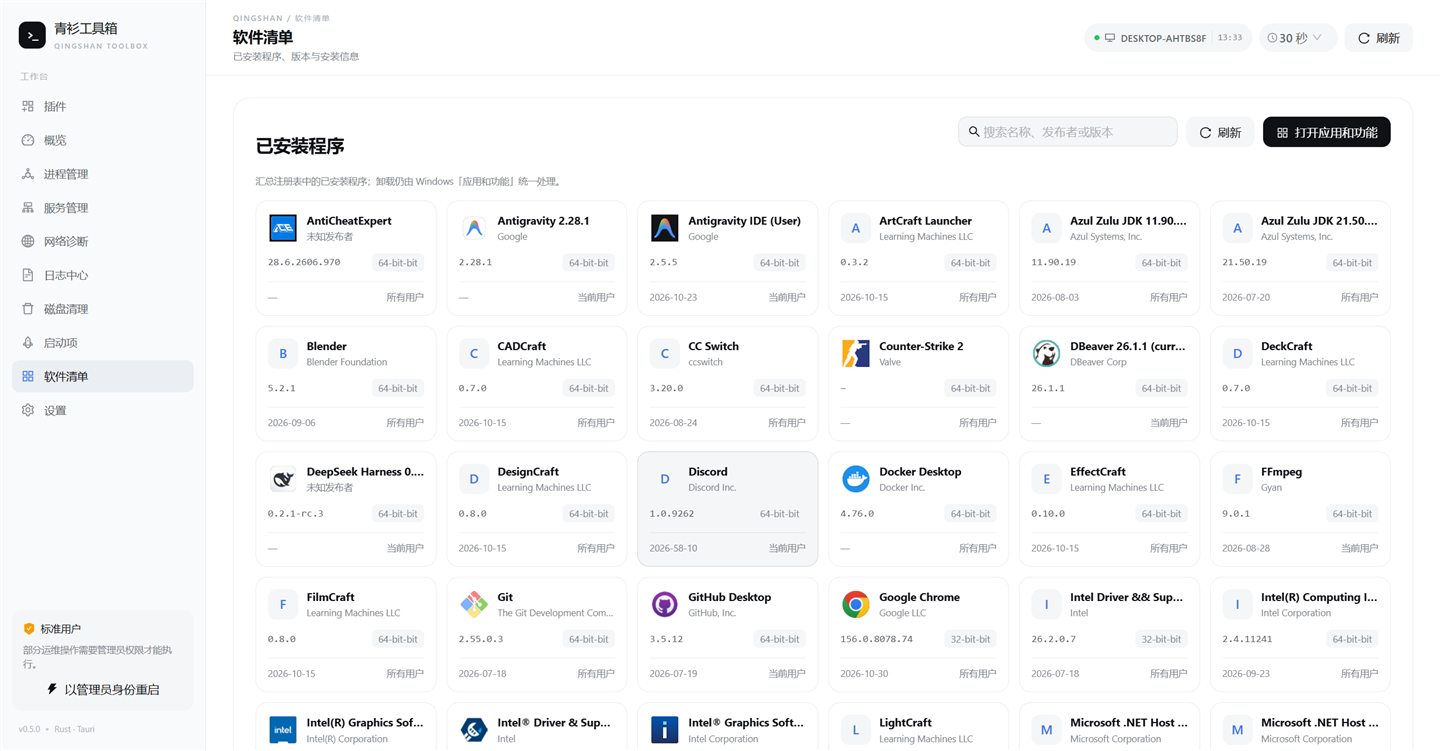
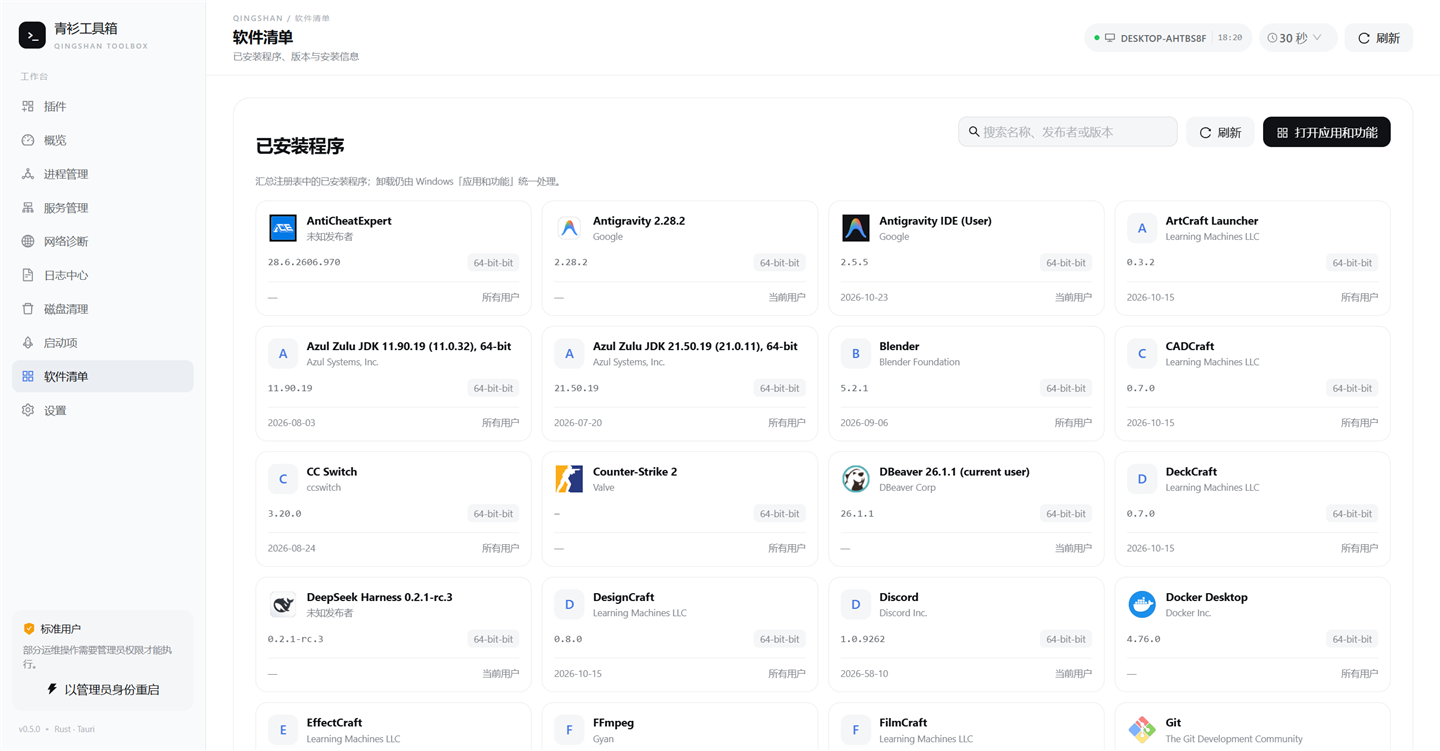
fix: lay out software shelf in four columns

diff --git a/desktop/ui/src/maintenance.css b/desktop/ui/src/maintenance.css
@@ -208,10 +208,10 @@
   line-height: 1.7;
 }
 
-/* Software inventory: six compact cards per row on desktop. */
+/* Software inventory: four compact cards per row on desktop. */
 .software-grid {
   display: grid;
-  grid-template-columns: repeat(6, minmax(0, 1fr));
+  grid-template-columns: repeat(4, minmax(0, 1fr));
   gap: 12px;
 }
 
@@ -328,19 +328,19 @@
 
 @media (max-width: 1180px) {
   .software-grid {
-    grid-template-columns: repeat(4, minmax(0, 1fr));
+    grid-template-columns: repeat(3, minmax(0, 1fr));
   }
 }
 
 @media (max-width: 860px) {
   .software-grid {
-    grid-template-columns: repeat(3, minmax(0, 1fr));
+    grid-template-columns: repeat(2, minmax(0, 1fr));
   }
 }
 
 @media (max-width: 640px) {
   .software-grid {
-    grid-template-columns: repeat(2, minmax(0, 1fr));
+    grid-template-columns: 1fr;
   }
 }
 

diff --git a/README.md b/README.md
@@ -46,7 +46,7 @@
 | 磁盘清理 | 临时文件、浏览器缓存、崩溃转储、Windows Update 缓存、回收站扫描与清理 | 固定白名单，按 id 清理；不触碰个人文档；系统目录需要管理员权限 |
 | 启动项 | Run 注册表与启动文件夹、启用状态、启停 | 通过 StartupApproved 写回；系统级项目需要管理员权限 |
 | 计划任务 | 任务列表、状态、启停 | 优先读取任务计划服务，受限环境回退任务文件；系统任务需管理员权限 |
-| 软件清单 | 六列卡片展示已安装程序，优先显示真实 Windows 图标，含版本、发布者、安装日期、架构、位置 | 只读注册表 Uninstall；卸载交给 Windows「应用和功能」 |
+| 软件清单 | 四列卡片展示已安装程序，优先显示真实 Windows 图标，含版本、发布者、安装日期、架构、位置 | 只读注册表 Uninstall；卸载交给 Windows「应用和功能」 |
 | 插件 | 独立「插件」页：已安装 / 发现、启停、搜索筛选、添加本地插件、官方可选包安装、详情与移除 | 声明式 `plugin.json`，不执行第三方代码；插件页结构参考 DSH 插件管理 |
 | 权限 | 检测 UAC 提权状态、以管理员身份重启 | 通过 `ShellExecuteW(runas)` 触发 |
 | 体验 | 深色/浅色主题、跟随系统、DSH 同源视觉、WebView2 | 主题记忆在本机，支持 `?theme=dark` 预览 |

diff --git a/docs/roadmap.md b/docs/roadmap.md
@@ -23,7 +23,7 @@
 - [ ] 日志中心扩展：应用日志文件、更多通道与实时跟随
 - [x] 磁盘清理：临时文件、回收站、浏览器缓存、Windows Update 缓存，带预估与白名单
 - [x] 启动项与计划任务：查看、禁用/启用（计划任务「下次运行时间」待补）
-- [x] 软件清单：六列卡片展示已安装程序，优先显示真实 Windows 图标，含版本、安装日期、安装位置（卸载统一交给 Windows「应用和功能」）
+- [x] 软件清单：四列卡片展示已安装程序，优先显示真实 Windows 图标，含版本、安装日期、安装位置（卸载统一交给 Windows「应用和功能」）
 
 优先级 P1：
 
